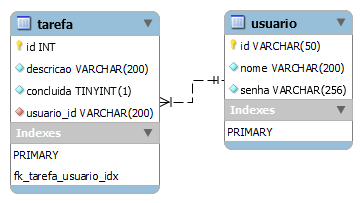
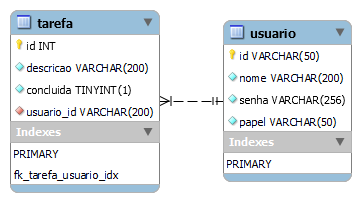
Adiciona papel do usuário

diff --git a/README.md b/README.md
@@ -37,6 +37,7 @@ CREATE TABLE `tarefas`.`usuario` (
   `id` VARCHAR(50) NOT NULL,
   `nome` VARCHAR(200) NOT NULL,
   `senha` VARCHAR(256) NOT NULL,
+  `papel` VARCHAR(50) NOT NULL DEFAULT 'usuario',
   PRIMARY KEY (`id`))
 ENGINE = InnoDB;
 
